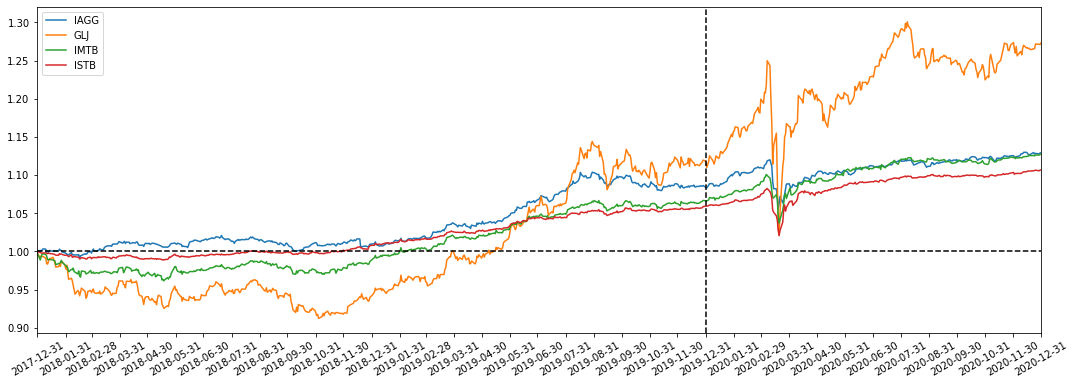
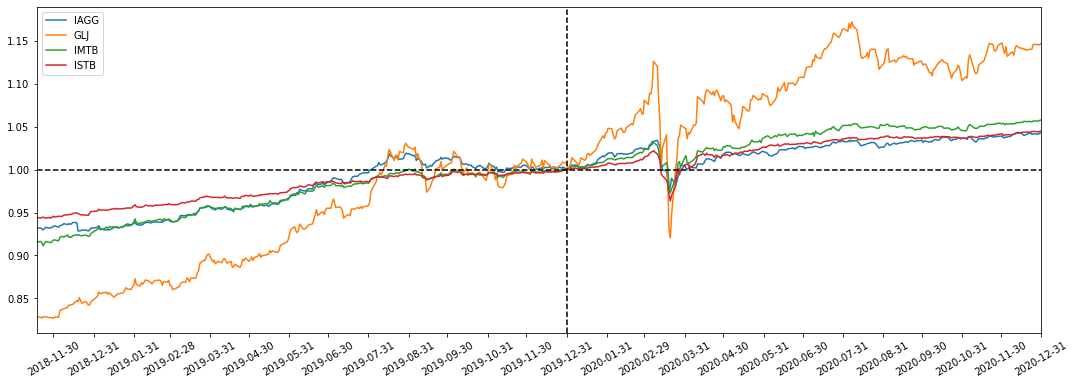
Lookback periods changed to use daily returns. Section 2 of the paper started

diff --git a/Paper/section/introduction.tex b/Paper/section/introduction.tex
@@ -16,7 +16,7 @@ The main critique point of Markowitz's portfolio construction model is the lack 
     
     To show the problems of Markowitz's minimum volatility portfolios in real applications, and compare these portfolios to the portfolios computed using the other methods and techniques, each of the techniques described in this paper is implemented for a portfolio of exchange traded products (ETPs) representing 4 assets classes: equities, fixed income, real estate and commodities. We use QuantConnect's \cite{qcwebsite} platform for the implementation and as the data source. This platform and its API allow us to perform backtests with 1-minute resolution data.
     
-    \subsubsection{Assets}
+    \subsubsection{The $N$ Assets}
         Due to the lack of Euro denominated ETP data in the QuantConnect data bank, we decided to use US dollar denominated ETPs which are intended for US based traders. For the selection of ETPs, we use iShares website \cite{isharesscreener}, because it provides a screener of its ETPs\footnote{Disclosure: the author of this paper is not associated with iShares, BlackRock or any of its companies.}.
         
         For the equity ETPs, we selected equity index exchange traded funds (ETFs) with regional category "Global" by sectors and industries. From all of the ETPs fulfilling those conditions shown in the online screener, we chose the following ETFs (alphabetically ordered by ticker):
@@ -37,32 +37,32 @@ The main critique point of Markowitz's portfolio construction model is the lack 
             \item iShares Global Consumer Discretionary ETF with ticker "RXI" which seeks to track the investment results of an index composed of global equities in the consumer discretionary sector. More specifically, the index tracked is the S{\&}P Global 1200 Consumer Discretionary Sector Capped Index. The top sub-sectors represented in the ETF holdings are retailing, autos and components, consumer durables and consumer services \cite{factsheet_rxi}.
         \end{itemize}
         
-        In figures \ref{fig:equity_etp_1usd_return_1} and \ref{fig:equity_etp_1usd_return_2}, we can see the end-of-day absolute return on an investment of 1 U.S. dollar in each of the selected equity ETPs from the end of 2017 until 2020. The zero return level and the start of the backtesting period are marked by a horizontal and a vertical black dashed line respectively. The steep drop in both charts around March 2020 marks the results of the COVID-19 crisis.
+        In figures \ref{fig:equity_etp_1usd_return_1} and \ref{fig:equity_etp_1usd_return_2}, we can see the end-of-day absolute return on an investment of 1 U.S. dollar in each of the selected equity ETPs from end 2019 until end 2020. The zero return level and the start of the backtesting period are marked by a horizontal and a vertical black dashed line respectively. The plot to the left of the vertical black dashed line represents the performances in the period used to warm-up the algorithm with data to be able to compute the first portfolio at the beginning of January 2020. The steep drop in both charts around March 2020 marks the results of the COVID-19 crisis.
         
         \begin{figure}[h!]
             \centering
             \includegraphics[width=1.15\textwidth]{bilder/Equity_ETP_1USD_Return_1.png}
-            \caption{Equity ETPs' returns on a 1 U.S. dollar investment from end 2017 until end 2020}
+            \caption{Equity ETPs' returns on a 1 U.S. dollar investment from end 2019 until end 2020}
             \label{fig:equity_etp_1usd_return_1}
-        \end{figure}\todo{correct wrong data}
+        \end{figure}
         
         In figure \ref{fig:equity_etp_1usd_return_2}, we observe the great run and out-performance of the iShares Global Tech ETF with ticker IXN.
         
         \begin{figure}[h!]
             \centering
             \includegraphics[width=1.15\textwidth]{bilder/Equity_ETP_1USD_Return_2.png}
-            \caption{Equity ETPs' returns on a 1 U.S. dollar investment from end 2017 until end 2020}
+            \caption{Equity ETPs' returns on a 1 U.S. dollar investment from end 2019 until end 2020}
             \label{fig:equity_etp_1usd_return_2}
-        \end{figure}\todo{correct wrong data}
+        \end{figure}
         
         In figure \ref{fig:re_etp_1usd_return}, we can see the end-of-day absolute return on an investment of 1 U.S. dollar in the ETP selected as a proxy to represent the real estate asset class.
         
         \begin{figure}[h!]
             \centering
             \includegraphics[width=1.15\textwidth]{bilder/RE_ETP_1USD_Return.png}
-            \caption{Real Estate ETP returns on a 1 U.S. dollar investment from end 2017 until end 2020}
+            \caption{Real Estate ETP returns on a 1 U.S. dollar investment from end 2019 until end 2020}
             \label{fig:re_etp_1usd_return}
-        \end{figure}\todo{better format}
+        \end{figure}
         
         For the fixed income ETPs, we selected fixed income index exchange traded funds (ETFs) of the iShares category \textit{Core}. From all of the ETPs fulfilling those conditions shown in the online screener, we chose the following ETFs (alphabetically ordered by ticker):
         % Fixed income alphabetically sorted.
@@ -76,7 +76,7 @@ The main critique point of Markowitz's portfolio construction model is the lack 
         \begin{figure}[h!]
             \centering
             \includegraphics[width=1.15\textwidth]{bilder/FI_ETP_1USD_Return.png}
-            \caption{Fixed Income ETPs' returns on a 1 U.S. dollar investment from end 2017 until end 2020}
+            \caption{Fixed Income ETPs' returns on a 1 U.S. dollar investment from end 2019 until end 2020}
             \label{fig:fi_etp_1usd_return}
         \end{figure}\todo{add comment}
         
@@ -92,7 +92,7 @@ The main critique point of Markowitz's portfolio construction model is the lack 
         \begin{figure}[h!]
             \centering
             \includegraphics[width=1.15\textwidth]{bilder/Commodity_ETP_1USD_Return.png}
-            \caption{Commodity ETPs' returns on a 1 U.S. dollar investment from end 2017 until end 2020}
+            \caption{Commodity ETPs' returns on a 1 U.S. dollar investment from end 2019 until end 2020}
             \label{fig:commodity_etp_1usd_return}
         \end{figure} \todo{add comment}
         
@@ -103,7 +103,7 @@ The main critique point of Markowitz's portfolio construction model is the lack 
         
         \todo{add commissions' settings}
         
-        For the computation of portfolio weights, the monthly returns of the past 24 months is used as input. This last setting does not affect the equal weight portfolio construction method, because this naive method does not use any past data as input. The reason why we use 24 months of past data is the following.
+        For the computation of portfolio weights, the monthly returns of the past 280 days is used as input. This last setting does not affect the equal weight portfolio construction method, because this naive method does not use any past data as input. The reason why we use 280 days of past data is the following.\todo{update reasoning}
         
         Let $N \in \mathbb{N} \setminus \{ 0 \}$ be the number of assets considered for the portfolio construction and $T \in \mathbb{N} \setminus \{ 0 \}$ the number of past periods data used as input for the optimisation model. Because the models analysed here rely upon the computation of a covariance matrix (except for the 2 naive methods: equal weight and inverse variance allocation), we need to compute one. Let the matrix that contains the $T$ returns in each row for all $N$ assets be defined as $R \in \mathbb{R}^{N \times T}$. The, $rank(R) \leq \min \{ N, T \}$ holds.
         
@@ -118,13 +118,13 @@ The main critique point of Markowitz's portfolio construction model is the lack 
         
         That means that $\Sigma \in GL_N(\mathbb{R})$ if only if $rank(\Sigma) = rank(\Tilde{R}) = rank(R) = N$, i.e. $N \leq T$ must hold.
         
-        In our practical implementation framework, we have selected $N = 20$ assets, therefore $T \geq 20$ must hold. We chose $T = 24$ because it corresponds to 2 full years of data.
+        In our practical implementation framework, we have selected $N = 20$ assets, therefore $T \geq 20$ must hold. We chose $T = 24$ because it corresponds to 2 full years of data.\todo{update reasoning and add 1/2 N (N+1) reason}
     
     \subsubsection{Portfolio Analyses}
         
         % Tools to analyse PFs: HHI for concentration, risk-adjusted returns, stability: turn-over volume, what else?
         
-        The portfolios generated by each optimisation method in backtesting will be analysed with respect to concentration, risk-adjusted return and turnover. To assess concentration, we will use a normalised version of the Herfindahl-Hirsch-Index (HHI). The normalisation step is necessary, because we will allow for short positions in our portfolios, and the HHI is only defined for positive portfolio weights. The Sharpe ratio is the chosen measure to quantify risk-returns. We will measure turnover via the total sum of incurred costs excluding spread over the whole backtesting period.
+        The portfolios generated by each optimisation method in backtesting will be analysed with respect to concentration, risk-adjusted return and turnover. To assess concentration, we will use a normalised version of the Herfindahl-Hirsch-Index (HHI). The normalisation step is necessary, because we will allow for short positions in our portfolios, and the HHI is only defined for positive portfolio weights. The Sharpe ratio is the chosen measure to quantify risk-returns. We will measure turnover via the total sum of incurred costs excluding spread over the whole backtesting period\todo{update measure to a ratio as stated below in a todo}.
         
         % https://quant.stackexchange.com/questions/65525/herfindahl-hirsch-index-for-fx-portfolios?noredirect=1#comment92677_65525
         %To assess concentration, we choose Yager's entropy, because, in contrast to the Herfindahl-Hirsch-Index, Yager's entropy allows asset weights to be negative. 
@@ -173,7 +173,7 @@ The main critique point of Markowitz's portfolio construction model is the lack 
         \end{definition}
         
         \begin{remark}
-            In this paper, we do not compute the Sharpe ratio of the backtest separately, and rely upon QuantConnect's internal overall portfolio statistics for its computation, i.e. all Sharpe ratios presented in this paper are the Sharpe ratios that appear in QuantConnect's backtesting results. QuantConnect computes the Sharpe ratio using the same definition as above, but using the annualised return of the portfolio in the backtest \cite{qcsharperatiocode}
+            In this paper, we do not compute the Sharpe ratio of the backtest separately, and rely upon QuantConnect's internal overall portfolio statistics for its computation, i.e. all Sharpe ratios presented in this paper are the Sharpe ratios that appear in QuantConnect's backtesting results. QuantConnect computes the Sharpe ratio using the same definition as above, but using the annualised return of the portfolio in the backtest \cite{qcsharperatiocode}.
         \end{remark}
         
         \todo{add a definition for a ratio of returns to commissions to determine if higher costs correlate to higher returns or not}

diff --git a/Paper/section/markowitzoptimalportfolio.tex b/Paper/section/markowitzoptimalportfolio.tex
@@ -1,42 +1,94 @@
-\subsection{Assumptions}
-    \textit{In this section, I would like to shortly describe the assumptions made by the Markowitz model. For example, that the investor is risk-averse. Some of the assumptions are economic assumptions that do not affect the result of the mathematical optimisation problem, but some others do. Moreover, it is a common practice in the financial industry to document Model assumptions and limitations in all model documentations.}
-    
-    \begin{definition}
-        testest
-    \end{definition}
-    
-    \begin{theorem}[]
-        werwerew
-    \end{theorem}
-    
-    References: \cite{markowitzorg}
+
+
+%\subsection{Assumptions}
+%    \textit{In this section, I would like to shortly describe the assumptions made by the Markowitz model. For example, that the investor is risk-averse. Some of the assumptions are economic assumptions that do not affect the result of the mathematical optimisation problem, but some others do. Moreover, it is a common practice in the financial industry to document Model assumptions and limitations in all model documentations.}
 
 \subsection{N-Assets Optimal Portfolio}\label{nassetssec}
     \textit{Here I will give a mathematical description of the optimisation problem presented by Markowitz, including some short proofs of the key points used to formulate the optimal solution as the solution of a linear equation system.}
     
-    \begin{align*}
-        \min& \quad w^T \cdot \Sigma \cdot w \\
-        \text{s.t.}& \quad \mathbf{1}^T \cdot w = 1
-    \end{align*}
-    
-    \begin{align*}
-        \min& \quad \frac{1}{2} w^T \cdot \Sigma \cdot w \\
-        \text{s.t.}& \quad \mathbf{1}^T \cdot w = 1
-    \end{align*}
-    
-    \begin{align*}
-        &\Rightarrow &\mathcal{L}(w, \lambda) &= \frac{1}{2} \cdot w^T \cdot \Sigma \cdot w - \lambda \cdot (\mathbf{1}^T \cdot w - 1) \\
-        &\Rightarrow &\frac{\partial \mathcal{L}}{\partial w} &= \Sigma \cdot w - \lambda \cdot \mathbf{1} \\
-        & &\frac{\partial \mathcal{L}}{\partial \lambda} &= 1 - \mathbf{1}^T \cdot w
-    \end{align*}
+    \begin{definition}[Optimal Mean-Variance Portfolio \cite{markowitzorg}]
+        Let $N \in \mathbb{N}_{\geq 0}$ be the number of assets considered for the portfolio construction. Then the vector with the allocation weights for each of the $N$ assets in the \textbf{optimal portfolio for a given level of return $\mu_P \in \mathbb{R}$} is given by the solution of the following optimisation problem
+        \begin{align*}
+            \arg \min_{w \in \mathbb{R}^N}& \quad w^T \cdot \Sigma \cdot w \\
+            \text{s.t.}& \quad \mathbf{1}^T \cdot w = 1 \\
+            & \quad \mu^T \cdot w = \mu_P
+        \end{align*}
         
-    \begin{align*}
-        \frac{\partial \mathcal{L}}{\partial w} = 0 \Leftrightarrow \Sigma \cdot w &= \lambda \cdot \mathbf{1} \\
-        \Leftrightarrow w &= \Sigma^{-1} \cdot (\lambda \cdot \mathbf{1}) \\
-        \Leftrightarrow w &= \lambda \cdot \Sigma^{-1} \cdot \mathbf{1}
-    \end{align*}\todo{better format alignment of left arrows}
+        where $\mathbf{1} := [ 1, \dots, 1]^T \in \mathbb{R}^N$, $\Sigma \in \mathbb{R}^{N \times N}$ is the covariance matrix of returns and $\mu \in \mathbb{R}^N$ is the vector of expected returns of the $N$ assets.
+        
+        The set of pairs $(\mu_p, \sigma_P) \in \mathbb{R} \times \mathbb{R}_{\geq 0}$ such that, for each $\mu_P \in \mathbb{R}$, $\sigma_P := w_{opt}^T \cdot \Sigma \cdot w_{opt}$ where $w_{opt}$ is the solution to the optimisation problem above is called the \textbf{efficient frontier}.
+    \end{definition}
     
+    The main critique point of this optimisation problem is the high sensitivity to small changes in the expected returns vector, which leads to significantly different portfolio allocations even for a unchanged covariance matrix \cite{michaudreturnsstability}. Because returns are difficult to forecast accurately enough to keep the sensitivity within certain limits, some asset managers abstain from using them as input parameter. Portfolio allocations are then computed on the basis of the covariance matrix only, which is a risk parameter, hence the name \textit{risk-based} asset allocation. In the case of Markowitz's portfolio optimisation model, risk-based optimal portfolios correspond to minimum volatility portfolios.
     
+    \begin{definition}[Minimum Volatility Portfolio \cite{berndscherer}]
+        Let $N \in \mathbb{N}_{\geq 0}$ be the number of assets considered for the portfolio construction. Then the vector with the allocation weights for each of the $N$ assets in the \textbf{minimum volatility portfolio} is given by the solution of the following optimisation problem
+        \begin{align*}
+            \arg \min_{w \in \mathbb{R}^N}& \quad w^T \cdot \Sigma \cdot w \\
+            \text{s.t.}& \quad \mathbf{1}^T \cdot w = 1
+        \end{align*}
+    \end{definition}
+    
+    %\begin{remark}
+    %    The minimum volatility portfolio optimisation problem is equivalent to the following
+    %    \begin{align*}
+    %        \arg \min_{w \in \mathbb{R}^N}& \quad \frac{1}{2} \cdot w^T \cdot \Sigma \cdot w \\
+    %        \text{s.t.}& \quad \mathbf{1}^T \cdot w = 1
+    %    \end{align*}
+    %\end{remark}
+    
+    \begin{theorem}
+        Let the covariance matrix $\Sigma \in \mathbb{R}^{N \times N}$ be given. Assuming that $\Sigma$ is non-singular, the minimum volatility portfolio allocation vector is given by
+        \begin{align*}
+            w_{opt} := \frac{1}{\mathbf{1}^T \cdot \Sigma^{-1} \cdot \mathbf{1}} \cdot \Sigma^{-1} \mathbf{1}
+        \end{align*}
+    \end{theorem}
+    
+    \begin{proof}
+        Let $\Sigma \in \mathbb{R}^{N \times N}$ be a non-singular covariance matrix. We define the Lagrangian corresponding to the minimum volatility portfolio optimisation problem as follows
+        \begin{align*}
+            \mathcal{L}(w, \lambda) := w^T \cdot \Sigma \cdot w - \lambda (\mathbf{1}^T \cdot w - 1)
+        \end{align*}
+        
+        To find the solution to the optimisation problem, we take the derivatives with respect to both $w$ and $\lambda$, and set them to $0$.
+        \begin{align*}
+            \frac{\partial \mathcal{L}}{\partial w} &= 2 \cdot \Sigma \cdot w - \lambda \cdot \mathbf{1} \\
+            \frac{\partial \mathcal{L}}{\partial \lambda} &= 1 - \mathbf{1}^T \cdot w
+        \end{align*}
+        \begin{align*}
+            \Rightarrow \frac{\partial \mathcal{L}}{\partial w} = 0 & \Leftrightarrow & 2 \cdot \Sigma \cdot w &= \lambda \cdot \mathbf{1} \\
+            & \Leftrightarrow & w &= \Sigma^{-1} \cdot \left( \frac{\lambda}{2} \cdot \mathbf{1} \right) \\
+            & \Leftrightarrow & w &= \frac{\lambda}{2} \cdot \Sigma^{-1} \cdot \mathbf{1}
+        \end{align*}\todo{better format alignment of left arrows}
+        \begin{align*}
+            \Rightarrow \frac{\partial \mathcal{L}}{\partial \lambda} = 0 & \Leftrightarrow & 1 - \mathbf{1}^T \cdot w &= 0 \\
+            & \Leftrightarrow & 1 - \mathbf{1}^T \cdot \frac{\lambda}{2} \cdot \Sigma^{-1} \cdot \mathbf{1} &= 0 \\
+            & \Leftrightarrow & 1 - \frac{\lambda}{2} \cdot \mathbf{1}^T \cdot \Sigma^{-1} \cdot \mathbf{1} &= 0 \\
+            & \Leftrightarrow & \frac{\lambda}{2} \cdot \mathbf{1}^T \cdot \Sigma^{-1} \cdot \mathbf{1} &= 1 \\
+            & \Leftrightarrow & \frac{\lambda}{2} &= \frac{1}{\mathbf{1}^T \cdot \Sigma^{-1} \cdot \mathbf{1}} \\
+            & \Leftrightarrow & \lambda &= \frac{2}{\mathbf{1}^T \cdot \Sigma^{-1} \cdot \mathbf{1}}
+        \end{align*}\todo{better format alignment of left arrows}
+        \begin{align*}
+            w_{opt} := \frac{\frac{2}{\mathbf{1}^T \cdot \Sigma^{-1} \cdot \mathbf{1}}}{2} \cdot \Sigma^{-1} \cdot \mathbf{1} = \frac{1}{\mathbf{1}^T \cdot \Sigma^{-1} \cdot \mathbf{1}} \cdot \Sigma^{-1} \mathbf{1}
+        \end{align*}
+    \end{proof}
+    
+    The analytical solution presented above relies on computing the inverse of the covariance matrix used as input. Because covariance matrices are only positive-semidefinite, i.e. not necessarily non-singular, and because computing the inverse of a matrix is computationally very expensive, we would like to redefine the analytical solution as the solution of a linear system. However, we will further assume that the covariance matrix used is non-singular.
+    
+    \begin{theorem}
+         Let the covariance matrix $\Sigma \in \mathbb{R}^{N \times N}$ be given. Assuming that $\Sigma$ is non-singular, the minimum volatility portfolio allocation vector can be computed as follows:
+         \begin{enumerate}
+             \item Solve the linear system $\Sigma \cdot w = \mathbf{1}$, and define its solution as $\Tilde{w}_{opt} \in \mathbb{R}^T$. (Note that if $\Sigma$ is non-singular, $w_{opt}$ might not be unique or even exist).
+             \item Normalise $\Tilde{w}_{opt}$ for its elements to sum up to $1$, i.e. set $w_{opt} = \frac{1}{\mathbf{1}^T \cdot \Tilde{w}_{opt}} \cdot \Tilde{w}_{opt}$.
+         \end{enumerate}
+    \end{theorem}
+    
+    \begin{proof}
+        Let the covariance matrix $\Sigma \in \mathbb{R}^{N \times N}$ be given and non-singular. Moreover, let $\Tilde{w}_{opt}$ be the solution of the linear system $\Sigma \cdot w = \mathbf{1}$. Then we can write $\Tilde{w}_{opt} = \Sigma^{-1} \mathbf{1}$.
+        \begin{align*}
+            \Rightarrow \quad \frac{1}{\mathbf{1}^T \cdot \Tilde{w}_{opt}} = \frac{1}{\mathbf{1}^T \cdot \Sigma^{-1} \cdot \mathbf{1}} \cdot \Sigma^{-1} \mathbf{1} = w_{opt}
+        \end{align*}
+    \end{proof}
     
     References: \cite{markowitzorg}, \cite{berndscherer}
     

diff --git a/QuantConnect_Algorithm/QuantConnect_Algorithm.py b/QuantConnect_Algorithm/QuantConnect_Algorithm.py
@@ -2,6 +2,8 @@ import numpy as np
 import pandas as pd
 import scipy.cluster.hierarchy as sch
 
+# TODO: add logs and messages.
+
 class MarkowitzMinimumVolatilityInstabilityAnalyses(QCAlgorithm):
 
     def Initialize(self):
@@ -18,14 +20,14 @@ class MarkowitzMinimumVolatilityInstabilityAnalyses(QCAlgorithm):
         
         # Optimisation model for the portfolio construction.
         # Options: "Equal Weight", "Inverse Variance", "Markowitz Minimum Volatility", "Hierarchical Risk Parity"
-        self.optimisationModel = "Equal Weight"
+        self.optimisationModel = "Markowitz Minimum Volatility"
         # Constrain portfolio construction to long-only portfolios.
-        # Note: this parameter is ignored if the optimisation model is Markowitz Minimum Volatility.
+        # Note: if the optimisation model is Markowitz Minimum Volatility, portfolios are NEVER long-only constrained.
         self.longOnlyBias = False
         # Normalise the allocation vectors computed so that the weights in the portfolio sum up to 1.
         NormaliseAllocationVector = True
-        # Number of past months' data to consider for the portfolio construction.
-        LookbackPeriods = 24
+        # Number of past days' data to consider for the portfolio construction. If set to 0, no override.
+        LookbackPeriodsOverride = 0
         # New York time of the first day in the month at which the portfolio is rebalanced.
         RebalancingTime = "10:00"
         # List with the assets to consider in the portfolio.
@@ -75,6 +77,9 @@ class MarkowitzMinimumVolatilityInstabilityAnalyses(QCAlgorithm):
         # Set the alpha model to generate constant insights of type price, upwards direction and 1 month duration.
         self.SetAlpha(AtMonthStartAlphaModel(RebalancingTime, self.Time.month))
         
+        LookbackPeriods = int((2/3) * len(SelectedAssets)*(len(SelectedAssets) + 1))
+        if LookbackPeriodsOverride != 0:
+            LookbackPeriods = LookbackPeriodsOverride
         # Set the portfolio construction model to the custom model PortfolioOptimisationModel with the chosen optimisation method, lookback periods direction constrain and normalisation setting.
         self.SetPortfolioConstruction(PortfolioOptimisationModel(self.optimisationModel, LookbackPeriods, self.longOnlyBias, NormaliseAllocationVector))
         
@@ -95,6 +100,7 @@ class MarkowitzMinimumVolatilityInstabilityAnalyses(QCAlgorithm):
             Arguments:
                 data: Slice object keyed by symbol containing the stock data
         '''
+        pass
         
     def CustomSecurityInitializer(self, security):
         '''
@@ -103,10 +109,20 @@ class MarkowitzMinimumVolatilityInstabilityAnalyses(QCAlgorithm):
         Arguments:
             security: security object of the instrument to initialise.
         '''
+        # TODO: update leverage
         security.SetLeverage(5000000000000000)
         security.SetDataNormalizationMode(DataNormalizationMode.TotalReturn)
         
+    def OnOrderEvent(self, orderEvent):
+        #https://www.quantconnect.com/docs/algorithm-reference/trading-and-orders#Trading-and-Orders-Tracking-Order-Events
+        #https://www.quantconnect.com/docs/algorithm-reference/reality-modelling#Reality-Modelling-Fill-Models
+        order = self.Transactions.GetOrderById(orderEvent.OrderId)
+        if orderEvent.Status == OrderStatus.Filled: 
+            self.Log("{0}: {1}: {2}".format(self.Time, order.Type, orderEvent)) #orderEvent.OrderFee
+        
     def OnEndOfAlgorithm(self):
+        
+        # TODO: close all open positions
         
         modelname = ""
                 
@@ -187,7 +203,9 @@ class PortfolioOptimisationModel(PortfolioConstructionModel):
         if len(insights) > 0:
             algorithm.Debug("Computing portfolio allocation...")
             
-            returnsData = self.GetHistoricalReturns(algorithm, [insight.Symbol for insight in insights])
+            returnsData = self.GetHistoricalDailyReturns(algorithm, [insight.Symbol for insight in insights])
+            # TODO: debug
+            algorithm.Debug(str(returnsData.shape))
             
             if self.optimisationModel == "Equal Weight":
                 return self.ComputeEqualWeightPF(algorithm, returnsData)
@@ -206,7 +224,8 @@ class PortfolioOptimisationModel(PortfolioConstructionModel):
     #def OnSecuritiesChanged(self, algorithm, changes):
     #    pass
     
-    def GetHistoricalReturns(self, algorithm, symbols):
+    # TODO: delete method?
+    def GetHistoricalMonthlyReturns(self, algorithm, symbols):
         historicalReturns = dict()
         total_return = lambda x: x.loc[x.index.max(), "close"] / x.loc[x.index.min(), "open"] - 1
     
@@ -214,6 +233,16 @@ class PortfolioOptimisationModel(PortfolioConstructionModel):
             symbolReturns = algorithm.History(symbol, timedelta(days=31 * self.lookbackPeriods), Resolution.Daily).loc[symbol, ["close", "open"]]
             symbolReturns = symbolReturns.groupby([symbolReturns.index.year, symbolReturns.index.month]).apply(total_return)
             historicalReturns[str(symbol)] = symbolReturns.tail(self.lookbackPeriods)
+    
+        return pd.DataFrame.from_dict(historicalReturns, orient="index").sort_index()
+        
+    def GetHistoricalDailyReturns(self, algorithm, symbols):
+        historicalReturns = dict()
+    
+        for symbol in symbols:
+            symbolReturns = algorithm.History(symbol, self.lookbackPeriods, Resolution.Daily).loc[symbol, ["close", "open"]]
+            symbolReturns = symbolReturns.apply(lambda x: x.loc["close"] / x.loc["open"] - 1, axis=1)
+            historicalReturns[str(symbol)] = symbolReturns
     
         return pd.DataFrame.from_dict(historicalReturns, orient="index").sort_index()
         

diff --git a/Paper/main.tex b/Paper/main.tex
@@ -23,12 +23,13 @@
 \usepackage{amssymb}
 
 %
-\theoremstyle{definition}
-\newtheorem{definition}{Definition}[section]
-\theoremstyle{remark}
-\newtheorem*{remark}{Remark}
-\theoremstyle{theorem}
+%\theoremstyle{plain}
 \newtheorem{theorem}{Theorem}[section]
+%\theoremstyle{definition}
+\newtheorem{definition}[theorem]{Definition}
+%\theoremstyle{remark}
+\newtheorem{remark}[theorem]{Remark}
+%\newtheorem{proof}[theorem]{Proof}
 %\newtheorem{corollary}{Corollary}[theorem]
 %\newtheorem{lemma}[theorem]{Lemma}
 %
